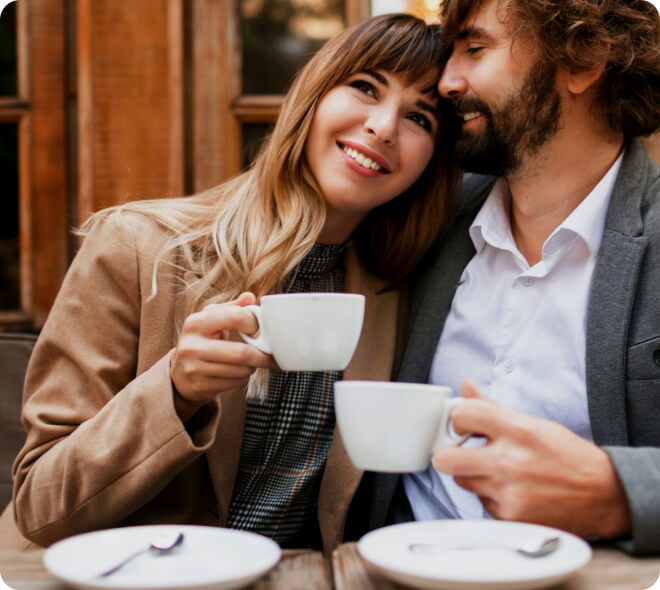
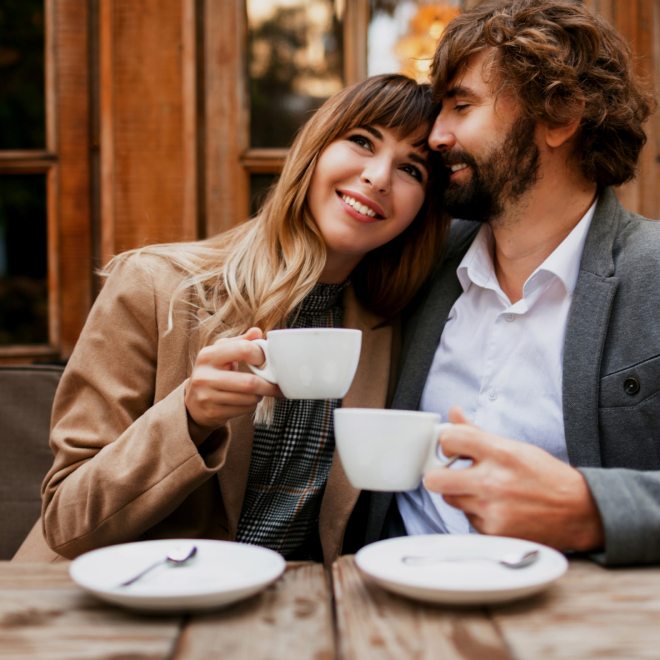
feat: add scale hover for images in Gallery block

diff --git a/coffee-house/index.html b/coffee-house/index.html
@@ -89,10 +89,18 @@
                 with friends, or get some work done.
             </h2>
             <div class="gallery__images">
-                <img src="assets/img/index-page/image-1.jpg" alt="">
-                <img src="assets/img/index-page/image-2.jpg" alt="">
-                <img src="assets/img/index-page/image-3.jpg" alt="">
-                <img src="assets/img/index-page/image-4.jpg" alt="">
+                <div class="gallery__image_container">
+                    <img src="assets/img/index-page/image-1.jpg">
+                </div>
+                <div class="gallery__image_container gallery__image_container_short">
+                    <img src="assets/img/index-page/image-2.jpg">
+                </div>
+                <div class="gallery__image_container gallery__image_container_short">
+                    <img src="assets/img/index-page/image-3.jpg">
+                </div>
+                <div class="gallery__image_container">
+                    <img src="assets/img/index-page/image-4.jpg">
+                </div>
             </div>
         </section>
         <section class="download-app">

diff --git a/coffee-house/assets/css/index.css b/coffee-house/assets/css/index.css
@@ -134,9 +134,50 @@
     grid-template-columns: repeat(2, 1fr);
 }
 
-.gallery__images > img {
+.gallery__image_container {
+    display: inline-block;
+    gap: 40px;
     border-radius: 20px;
+    overflow: hidden;
 }
+
+.gallery__image_container img {
+    display: block;
+    transform: scale(1.3);
+    transition: transform 0.5s;
+    cursor: pointer;
+}
+
+.gallery__image_container_short img {
+    position: relative;
+    top: -155px;
+}
+
+.gallery__image_container:hover img {
+    transform: scale(1.0);
+    transform-origin: 50% 50%;
+}
+
+.gallery__image_container:nth-child(1) {
+    width: 660px;
+    height: 590px;
+}
+
+.gallery__image_container:nth-child(2) {
+    width: 660px;
+    height: 430px;
+}
+
+.gallery__image_container:nth-child(3) {
+    width: 660px;
+    height: 430px;
+}
+
+.gallery__image_container:nth-child(4) {
+    width: 660px;
+    height: 590px;
+}
+
 
 .download-app {
     display: flex;
